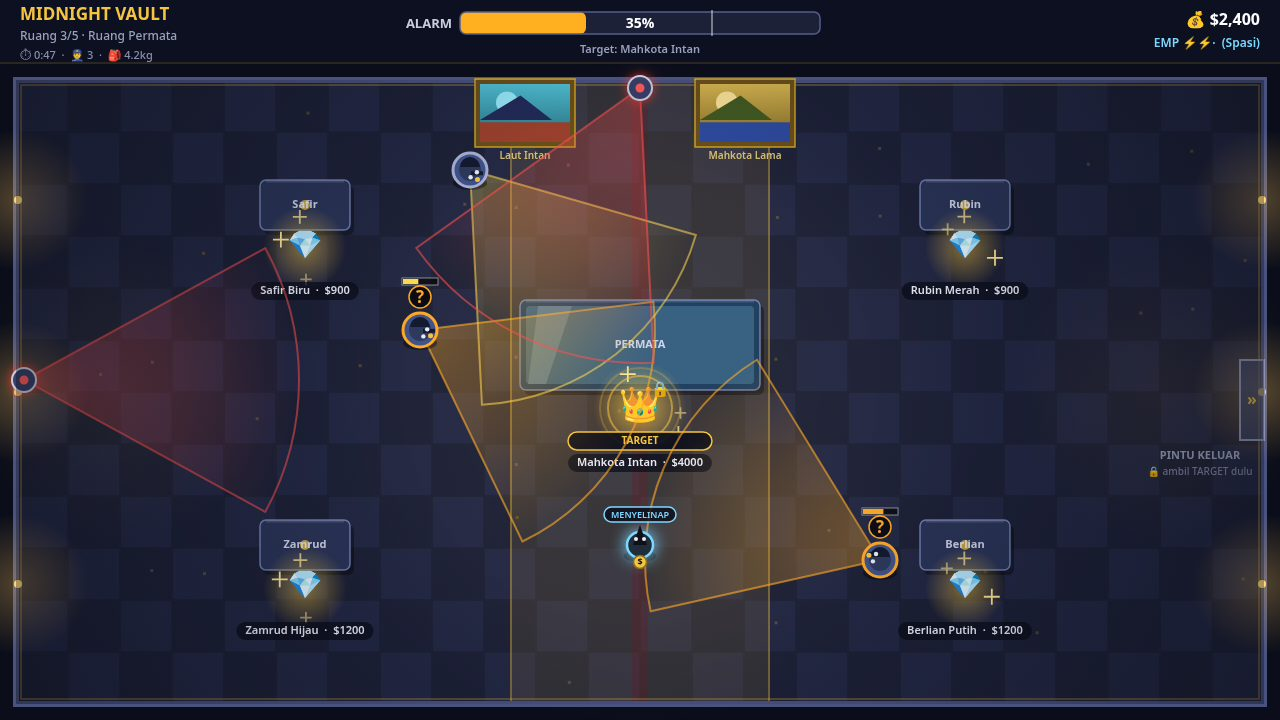
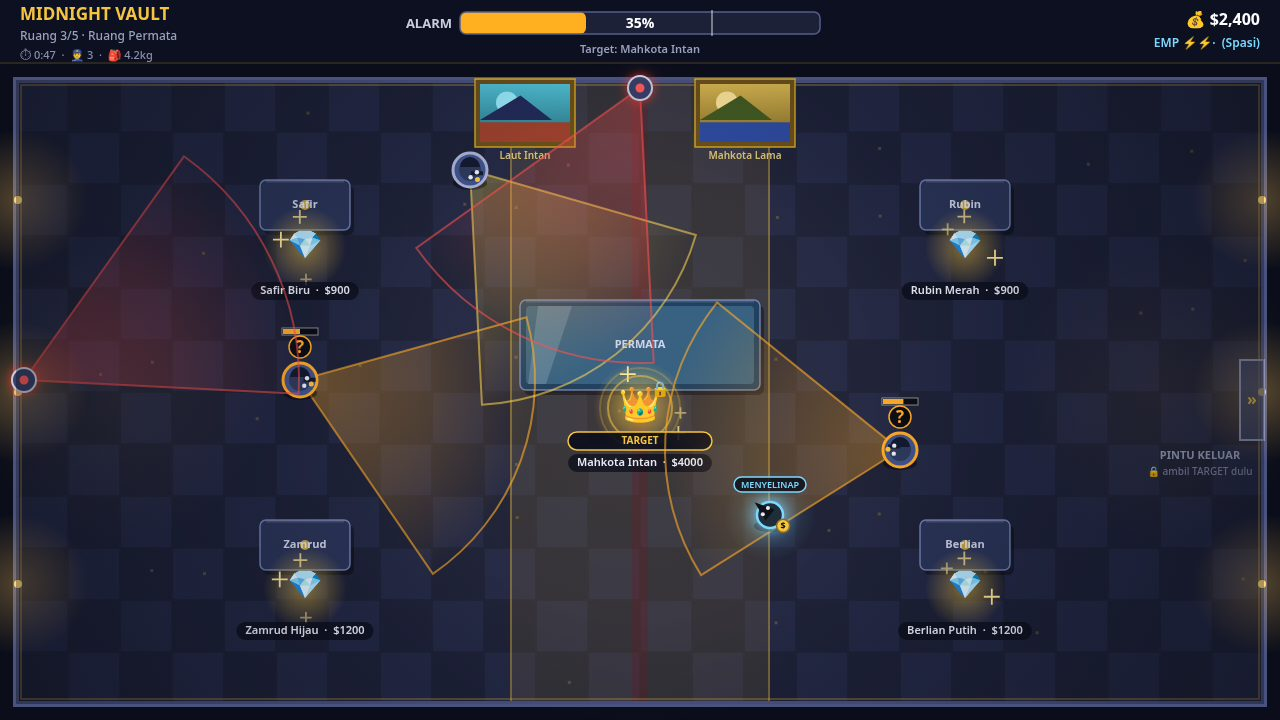
Midnight Vault v3: near-miss cover staging + thief glow + laser-grid shot
Cover restaged as a near-miss: thief crouched at the glass case corner
one hand from the crown, nearest guard cone grazing his shoulder, other
cones spread to the edges so the centre stops washing out; thief gets a
moonlight pool so the dark hero reads first. Laser shot moves the thief
inside the grid cell next to the crown (live beam left, dark beam right)
and drops the MAHKOTA table label that collided with the crown. README
adds the near-miss framing. Playtest 17/17, 0 console errors.

diff --git a/game/src/shots.js b/game/src/shots.js
@@ -24,21 +24,31 @@ export function stageShot(game, name, seed = 1) {
   game.shotMode = true;
 
   if (name === 'cover') {
-    // Shot 1 — Ruang Permata mid-heist: thief centre, 3 guards with
-    // bright cones closing in (one already suspicious, '?' overhead),
-    // 1 sweeping camera, the sparkling crown target, alarm ~35%.
+    // Shot 1 — Ruang Permata mid-heist, staged as a NEAR-MISS (v3):
+    // the thief crouches at the glass case's corner, one hand from the
+    // crown, while the nearest guard's orange cone grazes his shoulder —
+    // its edge passes ~14px from him, close enough to feel, not caught.
+    // The other two guards + two cameras frame the room from the edges
+    // so their cones no longer pile into one muddy wash in the centre,
+    // and the thief sits in the crown's gold halo instead of open dark
+    // floor, so the hero reads first at thumbnail size. Alarm ~35%.
     game.loadLevel(2);
     game.state = 'playing';
-    game.player.x = 640; game.player.y = 545;
-    game.player.dir = -Math.PI / 2; game.player.sneaking = true;
+    game.player.x = 770; game.player.y = 515;
+    game.player.dir = -2.45; game.player.sneaking = true;
     game.player.moving = false;
-    game.guards[0].x = 420; game.guards[0].y = 330; game.guards[0].dir = 0.5;
-    game.guards[0].state = 'suspicious'; game.guards[0].sus = 0.45;
-    game.guards[1].x = 880; game.guards[1].y = 560; game.guards[1].dir = Math.PI + 0.4;
-    game.guards[1].state = 'suspicious'; game.guards[1].sus = 0.6;
+    // Grazer: cone edge (dir 3.20, half-angle 0.62) sits 0.10 rad off the
+    // thief's bearing (2.68), so the thief is just inside the lit edge.
+    game.guards[0].x = 900; game.guards[0].y = 450; game.guards[0].dir = 3.2;
+    game.guards[0].state = 'suspicious'; game.guards[0].sus = 0.6;
+    // Second guard holds the left flank, also suspicious, cone sweeping
+    // the gallery floor toward the case — never onto the thief.
+    game.guards[1].x = 300; game.guards[1].y = 380; game.guards[1].dir = 0.35;
+    game.guards[1].state = 'suspicious'; game.guards[1].sus = 0.5;
     game.guards[2].x = 470; game.guards[2].y = 170; game.guards[2].dir = 0.9;
     game.cameras[0].angle = Math.PI / 2 + 0.45; // sweeping toward the thief
     game.cameras[0].t = 3.1;
+    game.cameras[1].angle = -0.45; // left camera looks up-gallery, off the thief
     game.alarm = 35;
     game.lootValue = 2400;
     game.bagWeight = 4.2;
@@ -75,13 +85,15 @@ export function stageShot(game, name, seed = 1) {
   }
 
   if (name === 'laser') {
-    // Shot 3 — the rooftop laser grid: the thief sneaking through a gap
-    // between live beams, crown waiting in the middle cell, guards
-    // closing from both sides, alarm at a tense 55%.
+    // Shot 3 — the rooftop laser grid (v3): the thief is INSIDE the
+    // grid now, crouched in the one safe cell — live beam x=460 glowing
+    // red on his left, dark beam x=640 on his right, live beam y=300
+    // above, dark beam y=420 below — with the crown one step ahead and
+    // guards closing from both sides, alarm at a tense 55%.
     game.loadLevel(4);
     game.state = 'playing';
-    game.player.x = 430; game.player.y = 380;
-    game.player.dir = 0; game.player.sneaking = true;
+    game.player.x = 490; game.player.y = 390;
+    game.player.dir = 0.1; game.player.sneaking = true;
     game.player.moving = false;
     game.guards[0].x = 300; game.guards[0].y = 150; game.guards[0].dir = 0;
     game.guards[1].x = 1080; game.guards[1].y = 200; game.guards[1].dir = Math.PI;

diff --git a/game/src/render.js b/game/src/render.js
@@ -2,10 +2,11 @@
 // the thief, the HUD with its big alarm meter, and every screen.
 // Everything is procedural Canvas 2D; the game ships no image files.
 //
-// VISUAL SYSTEM (v2): a night museum that reads at a glance — warm
+// VISUAL SYSTEM (v3): a night museum that reads at a glance — warm
 // sconce light against cool marble, bright gradient vision cones so a
 // guard's gaze is unmissable, sparkling loot with a gold TARGET pill,
-// and a HUD whose alarm meter, loot, EMP and clock never collide.
+// a moonlight pool under the thief so the dark hero reads first, and a
+// HUD whose alarm meter, loot, EMP and clock never collide.
 // The thief, the guards and the cameras all cast soft shadows so the
 // floor stops looking flat; every sparkle, window and confetti dot is
 // placed by a deterministic hash, never Math.random, so screenshots
@@ -473,6 +474,15 @@ function drawCameras(ctx, game) {
 function drawPlayer(ctx, game, t) {
   const p = game.player;
   const bob = p.moving ? Math.sin(t * 14) * 1.5 : 0;
+  // A soft pool of moonlight under the thief (v3): the hero is a dark
+  // hood on a dark floor, so a faint glow lifts him off the marble and
+  // makes him read first at a glance — cyan while sneaking, warm gold
+  // while walking. Purely visual; it never affects detection.
+  const glow = ctx.createRadialGradient(p.x, p.y, 4, p.x, p.y, 46);
+  glow.addColorStop(0, p.sneaking ? 'rgba(125,215,255,0.20)' : 'rgba(245,197,66,0.14)');
+  glow.addColorStop(1, 'rgba(125,215,255,0)');
+  ctx.fillStyle = glow;
+  ctx.beginPath(); ctx.arc(p.x, p.y, 46, 0, Math.PI * 2); ctx.fill();
   // Sneak shadow ring when hidden in the dark.
   ctx.fillStyle = 'rgba(0,0,0,0.4)';
   ctx.beginPath(); ctx.ellipse(p.x, p.y + 11, 16, 6, 0, 0, Math.PI * 2); ctx.fill();

diff --git a/game/src/rooms.js b/game/src/rooms.js
@@ -191,7 +191,7 @@ export const ROOMS = [
       { x: 880, y: 200, w: 110, h: 70, kind: 'ac', label: 'AC' },
       { x: 280, y: 500, w: 110, h: 70, kind: 'ac', label: 'AC' },
       { x: 880, y: 500, w: 110, h: 70, kind: 'ac', label: 'AC' },
-      { x: 510, y: 340, w: 80, h: 40, kind: 'table', label: 'MAHKOTA', blocksSight: false },
+      { x: 510, y: 340, w: 80, h: 40, kind: 'table', label: '', blocksSight: false }, // v3: no label — the crown's own TARGET pill sits here
     ],
     paintings: [],
     loot: [

diff --git a/README.md b/README.md
@@ -6,6 +6,8 @@
 
 **Midnight Vault** is a top-down heist game: one shadow thief slips into a Borneo museum at midnight, lifts the loot room by room, and escapes to the rooftop helipad before the alarm hits 100%. Five hand-designed rooms escalate from a quiet painting gallery to a laser-gridded rooftop — with patrolling guards whose bright vision cones turn from curious yellow to chasing red, sweeping security cameras with real blind gaps, a lockpick timing minigame, EMP charges, rhythmic lasers, and a bag that gets heavier (and slower) with every jewel you grab. Every visual is procedural Canvas 2D and every sound is WebAudio — the game ships no image or audio files and plays fully offline in a desktop browser.
 
+The cover frame is staged as a near-miss: the thief crouches at the glass case with the crown one hand away while a guard's vision cone grazes his shoulder — close enough to feel, not caught. That single held breath is the whole game: sneak, time the cones, grab the loot, get out.
+
 ## Run it
 
 ```sh
